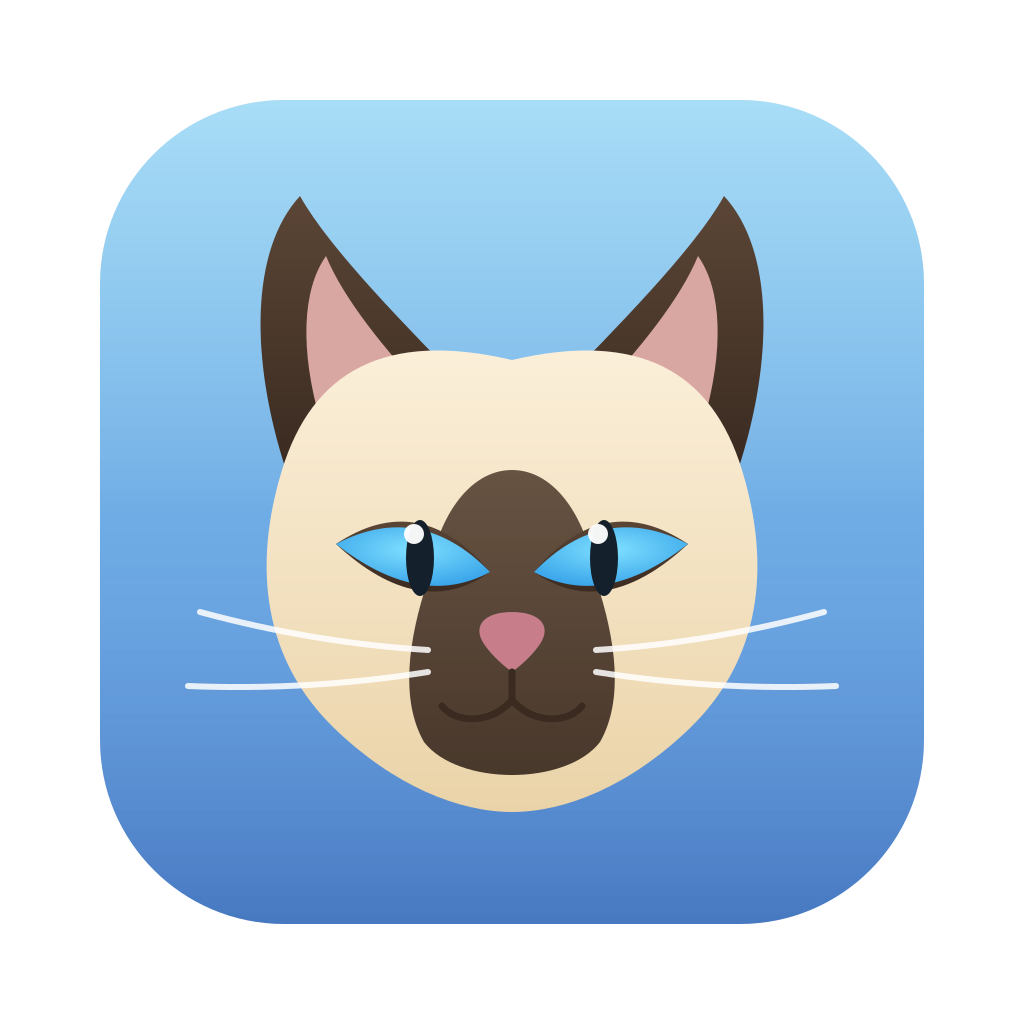
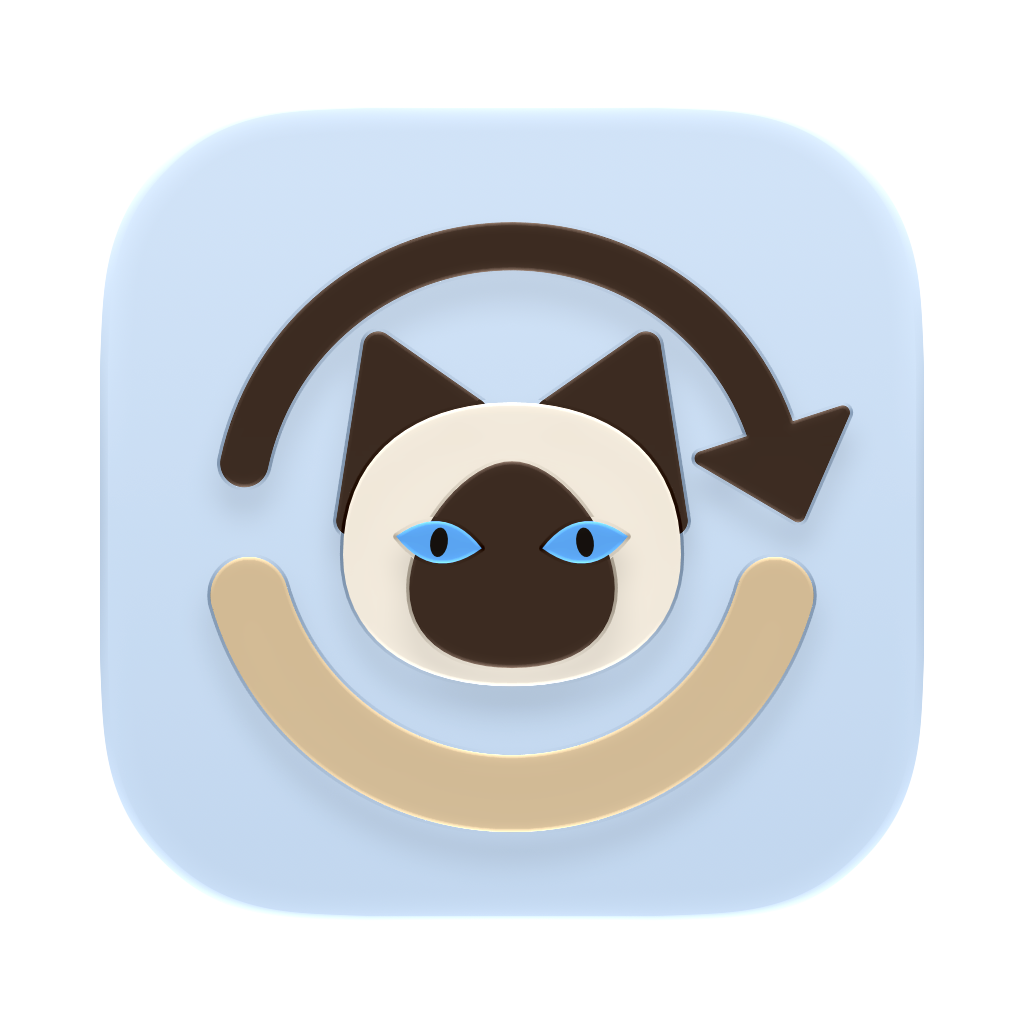
Sync content through 0.4.7
The app icon is now an Icon Composer document (AppIcon.icon); the flat
AppIcon.appiconset PNGs are gone. sync renders each size with Xcode's ictool
(macOS, Default) and pads it to the macOS grid (824 of 1024), as before.

diff --git a/content/changelog/ru.md b/content/changelog/ru.md
@@ -2,6 +2,16 @@
 
 Это перевод файла `CHANGELOG.md` на русский язык. Официальной версией остаётся англоязычный оригинал, а версии, отсутствующие в этом переводе, автоматически отображаются на английском языке.
 
+## 0.4.7
+
+**Новая иконка.** Свернувшаяся клубком сиамская кошка, чей хвост — стрелка обновления. В macOS 26 и новее она следует выбранному вами стилю иконок: светлому, тёмному или тонированному.
+
+**Фоновые проверки ждут, пока вы в режиме экономии данных или в сети с оплатой за трафик, например в режиме модема iPhone.** Они запускаются, как только вы вернётесь в обычную сеть. Ручная проверка и установка обновлений работают как раньше.
+
+**Проверки, не прошедшие из-за сбоя сети, повторяются один раз через две минуты.** Раньше строки с ошибкой и предупреждение оставались до следующей плановой проверки — по умолчанию через шесть часов.
+
+**Под капотом.** Изображения в заметках о выпуске занимают гораздо меньше места на диске, панель Запросы больше не считает повторно проверенный запрос дважды, а проверка Muse больше не скачивает её страницу входа.
+
 ## 0.4.6
 
 **Приложения из Homebrew, которые устанавливаются собственным сценарием установки, например Quark Cloud Drive, теперь обновляются в один клик.** Раньше каждая попытка заканчивалась ошибкой о том, что установочного пакета нет.

diff --git a/content/changelog/ja.md b/content/changelog/ja.md
@@ -2,6 +2,16 @@
 
 このページは `CHANGELOG.md` の日本語訳です。英語版が権威あるバージョンであり、ここに記載されていないバージョンは自動的に英語版へフォールバックします。
 
+## 0.4.7
+
+**新しい App アイコン。** 丸くなったシャム猫で、しっぽが更新の矢印になっています。macOS 26 以降では、選択しているライト・ダーク・カラーのアイコンスタイルに合わせて表示されます。
+
+**省データモードや従量制のネットワーク（iPhone のインターネット共有など）では、バックグラウンドの確認を待つようになりました。** 通常のネットワークに戻るとすぐに実行されます。手動での確認とアップデートのインストールはこれまでどおりです。
+
+**ネットワークの一時的な不調で失敗した確認は、2 分後に一度だけ自動で再試行されます。** 以前は、失敗した行と警告が次の定期確認（デフォルトでは 6 時間後）まで残っていました。
+
+**内部の改善。** リリースノートの画像が使うディスク容量が大幅に減り、リクエスト パネルで再検証のリクエストが 2 回数えられることはなくなり、Muse の確認でログインページをダウンロードすることもなくなりました。
+
 ## 0.4.6
 
 **Quark Cloud Drive のように独自のセットアップスクリプトでインストールする Homebrew の App が、ワンクリックで更新できるようになりました。** 以前は毎回、インストーラパッケージが含まれていないというエラーで終わっていました。

diff --git a/content/changelog/fr.md b/content/changelog/fr.md
@@ -2,6 +2,16 @@
 
 Ceci est la traduction de `CHANGELOG.md`. La version anglaise fait autorité. Les versions non énumérées ici reviennent automatiquement à l’anglais.
 
+## 0.4.7
+
+**Une nouvelle icône.** Un chat siamois enroulé sur lui-même, dont la queue forme la flèche d’actualisation. Sur macOS 26 et ultérieur, elle suit votre style d’icônes clair, sombre ou teinté.
+
+**Les vérifications en arrière-plan attendent tant que vous êtes en mode données faibles ou sur une connexion limitée, comme un partage de connexion iPhone.** Elles s’exécutent dès que vous retrouvez un réseau normal. La vérification manuelle et l’installation des mises à jour fonctionnent comme avant.
+
+**Les vérifications qui échouent à cause d’un raté du réseau sont relancées une fois, deux minutes plus tard.** Avant, les lignes en échec et l’avertissement restaient jusqu’à la vérification programmée suivante, six heures plus tard par défaut.
+
+**Sous le capot.** Les images des notes de version prennent beaucoup moins de place sur le disque, le panneau Requêtes ne compte plus deux fois une requête revalidée, et la vérification de Muse ne télécharge plus sa page de connexion.
+
 ## 0.4.6
 
 **Les apps Homebrew qui s’installent avec leur propre script d’installation, comme Quark Cloud Drive, se mettent désormais à jour en un clic.** Avant, chaque tentative se terminait par une erreur indiquant qu’aucun paquet d’installation n’avait été trouvé.

diff --git a/content/changelog/es.md b/content/changelog/es.md
@@ -2,6 +2,16 @@
 
 Esta es la traducción al español del archivo CHANGELOG.md. La versión en inglés es la autoridad en caso de discrepancias. Los números de versión no incluidos aquí se mostrarán automáticamente en inglés en la ventana de Novedades.
 
+## 0.4.7
+
+**Un icono nuevo.** Un gato siamés acurrucado cuya cola es la flecha de actualizar. En macOS 26 y posteriores sigue tu estilo de iconos claro, oscuro o tintado.
+
+**Las comprobaciones en segundo plano esperan mientras estás en modo de datos bajos o en una conexión de uso medido, como un punto de acceso de iPhone.** Se ejecutan en cuanto vuelves a una red normal. Comprobar a mano e instalar actualizaciones funciona como antes.
+
+**Las comprobaciones que fallan por un corte momentáneo de la red se reintentan una vez, dos minutos después.** Antes, las filas fallidas y el aviso seguían ahí hasta la siguiente comprobación programada, seis horas después de forma predeterminada.
+
+**Por dentro.** Las imágenes de las notas de versión ocupan mucho menos espacio en disco, el panel Solicitudes ya no cuenta dos veces una solicitud revalidada y la comprobación de Muse ya no descarga su página de inicio de sesión.
+
 ## 0.4.6
 
 **Las apps de Homebrew que se instalan con su propio script de instalación, como Quark Cloud Drive, ahora se actualizan con un clic.** Antes, cada intento terminaba con un error que decía que no había ningún paquete de instalación.

diff --git a/content/changelog/pt-br.md b/content/changelog/pt-br.md
@@ -2,6 +2,16 @@
 
 Esta é a tradução para o português do Brasil do arquivo CHANGELOG.md. A versão em inglês prevalece em caso de divergência. Os números de versão que não aparecem aqui são mostrados automaticamente em inglês na janela Novidades.
 
+## 0.4.7
+
+**Um novo ícone.** Um gato siamês enrolado, com o rabo formando a seta de atualizar. No macOS 26 e posterior, ele segue o seu estilo de ícones claro, escuro ou colorido.
+
+**As verificações em segundo plano esperam enquanto você está no Modo Dados Reduzidos ou numa conexão limitada, como o Acesso Pessoal do iPhone.** Elas rodam assim que você volta a uma rede normal. Verificar manualmente e instalar atualizações funcionam como antes.
+
+**Verificações que falham por uma instabilidade da rede são repetidas uma vez, dois minutos depois.** Antes, as linhas com falha e o aviso ficavam até a próxima verificação agendada, seis horas depois por padrão.
+
+**Nos bastidores.** As imagens das notas de versão ocupam bem menos espaço em disco, o painel Requisições não conta mais duas vezes uma requisição revalidada e a verificação do Muse não baixa mais a página de login dele.
+
 ## 0.4.6
 
 **Apps do Homebrew que se instalam com o próprio script de instalação, como o Quark Cloud Drive, agora são atualizados com um clique.** Antes, toda tentativa terminava com um erro dizendo que não havia nenhum pacote de instalação.

diff --git a/content/changelog/de.md b/content/changelog/de.md
@@ -2,6 +2,16 @@
 
 Dies ist eine deutsche Übersetzung von `CHANGELOG.md`. Die englische Fassung ist maßgeblich; frühere Versionen, die hier nicht aufgeführt sind, fallen automatisch auf Englisch zurück.
 
+## 0.4.7
+
+**Ein neues App-Symbol.** Eine zusammengerollte Siamkatze, deren Schwanz der Aktualisieren-Pfeil ist. Ab macOS 26 folgt es deinem hellen, dunklen oder getönten Symbolstil.
+
+**Prüfungen im Hintergrund warten, solange du im Datensparmodus oder in einem getakteten Netz bist, etwa einem iPhone-Hotspot.** Sie laufen, sobald du wieder in einem normalen Netz bist. Manuelles Prüfen und das Installieren von Updates funktionieren wie bisher.
+
+**Prüfungen, die an einem kurzen Netzwerkaussetzer scheitern, werden zwei Minuten später einmal wiederholt.** Bisher blieben die fehlgeschlagenen Zeilen und die Warnung bis zur nächsten geplanten Prüfung stehen, standardmäßig sechs Stunden später.
+
+**Unter der Haube.** Bilder in Versionshinweisen belegen deutlich weniger Speicherplatz, der Bereich Anfragen zählt eine erneut validierte Anfrage nicht mehr doppelt, und die Prüfung von Muse lädt nicht mehr dessen Anmeldeseite herunter.
+
 ## 0.4.6
 
 **Homebrew-Apps, die sich über ein eigenes Setup-Skript installieren, etwa Quark Cloud Drive, lassen sich jetzt mit einem Klick aktualisieren.** Bisher endete jeder Versuch mit der Meldung, es sei kein Installationspaket enthalten.

diff --git a/content/changelog/it.md b/content/changelog/it.md
@@ -2,6 +2,16 @@
 
 Questa è la traduzione di `CHANGELOG.md`. In caso di differenze fa fede la versione inglese. Le versioni non elencate qui vengono mostrate automaticamente in inglese.
 
+## 0.4.7
+
+**Una nuova icona.** Un gatto siamese acciambellato, con la coda che fa da freccia di aggiornamento. Su macOS 26 e successivi segue il tuo stile di icone chiaro, scuro o colorato.
+
+**I controlli in background aspettano finché sei in modalità dati ridotti o su una connessione a consumo, come un hotspot iPhone.** Partono appena torni su una rete normale. Il controllo manuale e l’installazione degli aggiornamenti funzionano come prima.
+
+**I controlli che falliscono per un intoppo della rete vengono ripetuti una volta, due minuti dopo.** Prima le righe non riuscite e l’avviso restavano fino al controllo programmato successivo, di norma sei ore dopo.
+
+**Dietro le quinte.** Le immagini delle note di rilascio occupano molto meno spazio su disco, il pannello Richieste non conta più due volte una richiesta riconvalidata e il controllo di Muse non scarica più la sua pagina di accesso.
+
 ## 0.4.6
 
 **Le app di Homebrew che si installano con un proprio script di installazione, come Quark Cloud Drive, ora si aggiornano con un clic.** Prima ogni tentativo finiva con un errore che diceva che non c’era alcun pacchetto di installazione.

diff --git a/content/changelog/tr.md b/content/changelog/tr.md
@@ -2,6 +2,16 @@
 
 Bu, `CHANGELOG.md` dosyasının Türkçe çevirisidir. Geçerli olan İngilizce sürümdür; burada yer almayan eski sürümler otomatik olarak İngilizce gösterilir.
 
+## 0.4.7
+
+**Yeni bir uygulama simgesi.** Kıvrılmış bir Siyam kedisi; kuyruğu yenileme okunu oluşturuyor. macOS 26 ve sonrasında seçtiğiniz açık, koyu veya renklendirilmiş simge stiline uyuyor.
+
+**Düşük Veri Modu'ndayken veya iPhone erişim noktası gibi ölçülü bir bağlantıdayken arka plan denetimleri bekliyor.** Normal bir ağa döndüğünüz anda çalışıyorlar. Elle denetleme ve güncelleme yükleme eskisi gibi çalışıyor.
+
+**Anlık bir ağ aksaklığı yüzünden başarısız olan denetimler iki dakika sonra bir kez yeniden deneniyor.** Önceden başarısız satırlar ve uyarı, bir sonraki zamanlanmış denetime, varsayılan olarak altı saat sonrasına kadar kalıyordu.
+
+**Perde arkasında.** Sürüm notlarındaki görseller diskte çok daha az yer kaplıyor, İstekler bölmesi yeniden doğrulanan bir isteği artık iki kez saymıyor ve Muse denetimi artık onun giriş sayfasını indirmiyor.
+
 ## 0.4.6
 
 **Quark Cloud Drive gibi kendi kurulum betiğiyle kurulan Homebrew uygulamaları artık tek tıkla güncelleniyor.** Önceden her deneme, kurulum paketi bulunamadığını söyleyen bir hatayla bitiyordu.

diff --git a/content/changelog.md b/content/changelog.md
@@ -19,6 +19,16 @@ release note is debugging our code:
 
 Versions before 0.3.80 are the old long-form style; leave them as shipped.
 
+## 0.4.7
+
+**A new app icon.** A Siamese cat curled up, with its tail as the refresh arrow. On macOS 26 and later it follows your light, dark or tinted icon style.
+
+**Background checks wait while you're in Low Data Mode or on a metered connection, such as an iPhone hotspot.** They run as soon as you're back on a regular network. Checking by hand and installing updates work as before.
+
+**Checks that fail because of a network hiccup are retried once, two minutes later.** Before, the failed rows and the warning stayed until the next scheduled check, six hours later by default.
+
+**Under the hood.** Release-note images take up much less disk space, the Requests pane no longer counts a revalidated request twice, and checking Muse no longer downloads its sign-in page.
+
 ## 0.4.6
 
 **Homebrew apps that install through their own setup script, such as Quark Cloud Drive, now update with one click.** Before, every attempt ended with "did not contain an installer package".

diff --git a/content/changelog/zh-hans.md b/content/changelog/zh-hans.md
@@ -2,6 +2,16 @@
 
 本文档是 CHANGELOG.md 的简体中文翻译。英文版本是权威参考。未在本文档中列出的版本将自动回退至英文显示。
 
+## 0.4.7
+
+**全新的应用图标。** 一只蜷起来的暹罗猫，尾巴就是刷新箭头。在 macOS 26 及以后，它会跟随你选择的浅色、深色或着色图标风格。
+
+**在低数据模式或按流量计费的网络（比如 iPhone 热点）下，后台检查会先等一等。** 回到普通网络后立即补上。手动检查和安装更新不受影响。
+
+**因为网络抖动而失败的检查，会在两分钟后自动重试一次。** 以前失败的行和警告会一直留到下一次定时检查，默认是六小时后。
+
+**内部改进。** 发布说明里的图片占用的磁盘空间小了很多，请求 面板不再把一次重新验证的请求算成两次，检查 Muse 时也不再下载它的登录页。
+
 ## 0.4.6
 
 **通过自带安装脚本安装的 Homebrew 应用（比如夸克网盘）现在可以一键更新。** 以前每次尝试都会报错，说下载的文件里没有安装包。

diff --git a/content/changelog/zh-hant.md b/content/changelog/zh-hant.md
@@ -2,6 +2,16 @@
 
 本文件是 CHANGELOG.md 的繁體中文翻譯，以英文版為準。本文件中未列出的版本會自動改以英文顯示。
 
+## 0.4.7
+
+**全新的 App 圖像。** 一隻蜷起來的暹羅貓，尾巴就是重新整理箭頭。在 macOS 26 及以後，它會跟隨你選擇的淺色、深色或著色圖像風格。
+
+**在低數據模式或按流量計費的網路（例如 iPhone 熱點）下，背景檢查會先等一等。** 回到一般網路後立即補上。手動檢查和安裝更新不受影響。
+
+**因為網路不穩而失敗的檢查，會在兩分鐘後自動重試一次。** 以前失敗的列和警告會一直留到下一次排程檢查，預設是六小時後。
+
+**底層改進。** 版本說明裡的圖片佔用的磁碟空間小了很多，請求 面板不再把一次重新驗證的請求算成兩次，檢查 Muse 時也不再下載它的登入頁面。
+
 ## 0.4.6
 
 **透過自帶安裝腳本安裝的 Homebrew App（例如夸克網盤）現在可以一鍵更新。** 以前每次嘗試都會出錯，說下載的檔案裡沒有安裝套件。
